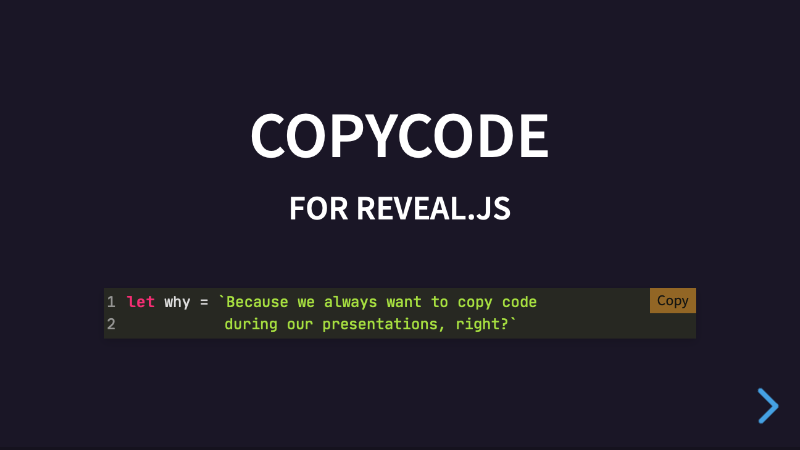
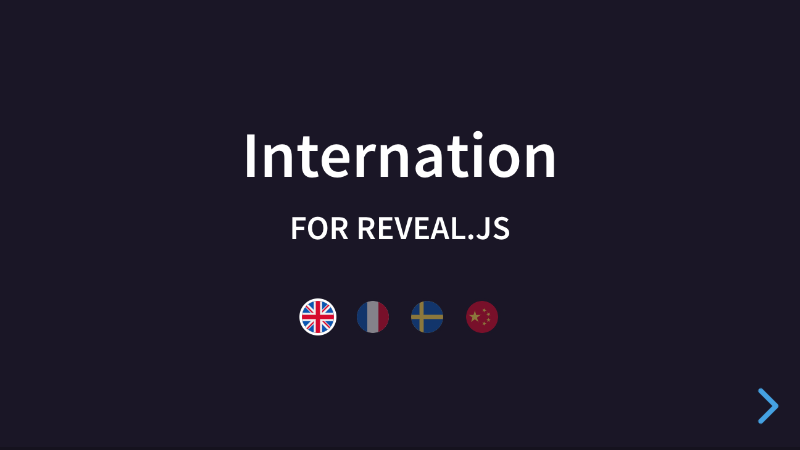
Change readme

diff --git a/README.md b/README.md
@@ -1,2 +1,13 @@
-# reveal.js-internation
- Localization of Reveal.js presentations
+# Internation
+
+A simple plugin for [Reveal.js](https://revealjs.com) 4, that can let the user choose a language for the presentation.
+
+[![Screenshot](screenshot.png)](https://martinomagnifico.github.io/reveal.js-internation/demo.html)
+
+This Readme is not finished yet :-)
+
+A few points:
+
+* You will need to make JSON files.
+* You may generate your first JSON file by setting the makejson option to true. This will immediately download a JSON file generated from the current HTML content, but you will still need to tag the texts with a data-attribute in advance.
+* Sections need ID's for this plugin to work, so you can always move your files.
